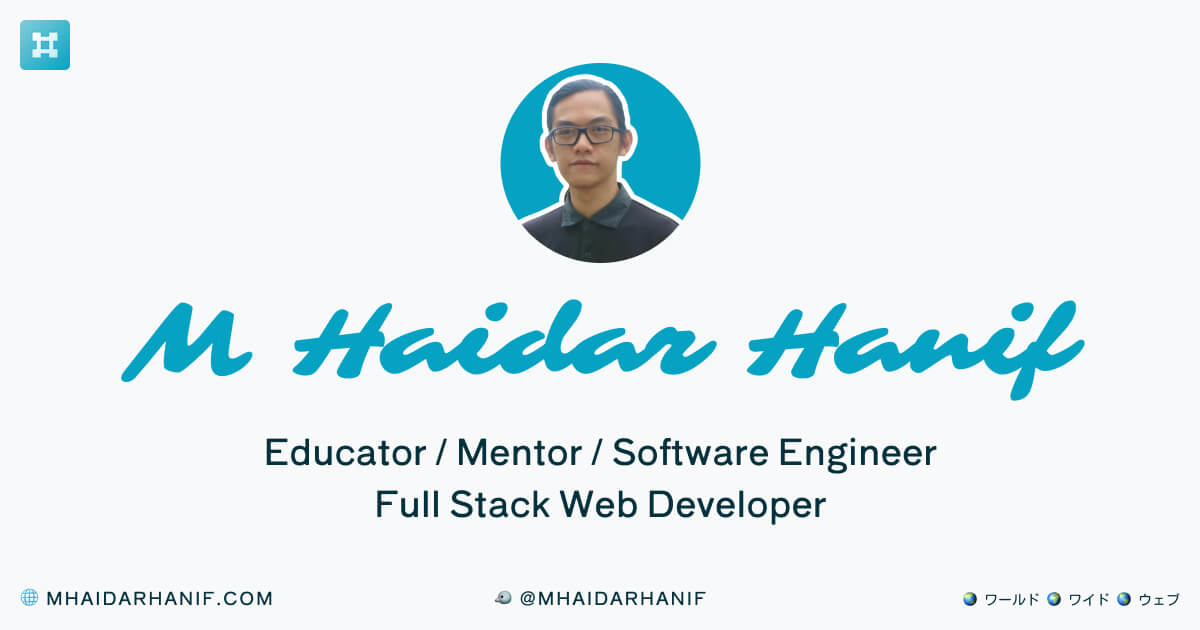
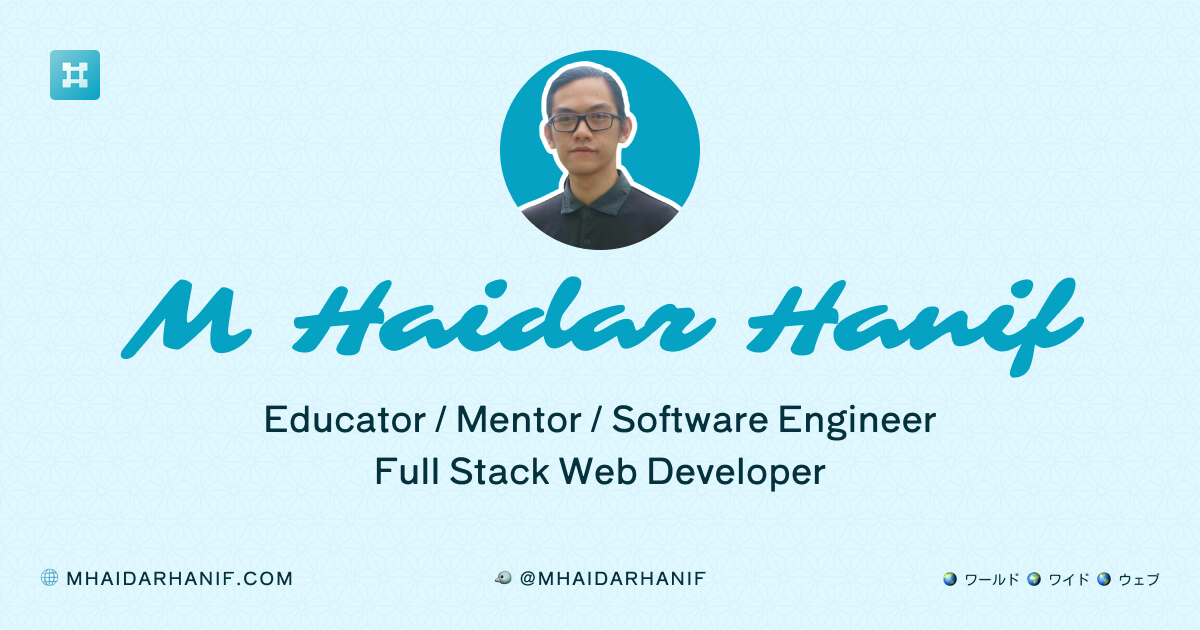
feat: update og image and twitter image

diff --git a/app/data/meta.ts b/app/data/meta.ts
@@ -7,8 +7,8 @@ export const metaDefault = {
   route: '',
   color: '#05a2c2',
   ogImageAlt: 'Website of M Haidar Hanif',
-  ogImageUrl: 'images/mhaidarhanif-og.jpg?v=1',
-  twiterImageUrl: 'images/mhaidarhanif-twitter.jpg?v=1',
+  ogImageUrl: 'images/mhaidarhanif-og.jpg?v=2',
+  twiterImageUrl: 'images/mhaidarhanif-twitter.jpg?v=2',
   fbAppId: '221593320168071',
   locale: 'en_US',
 }
